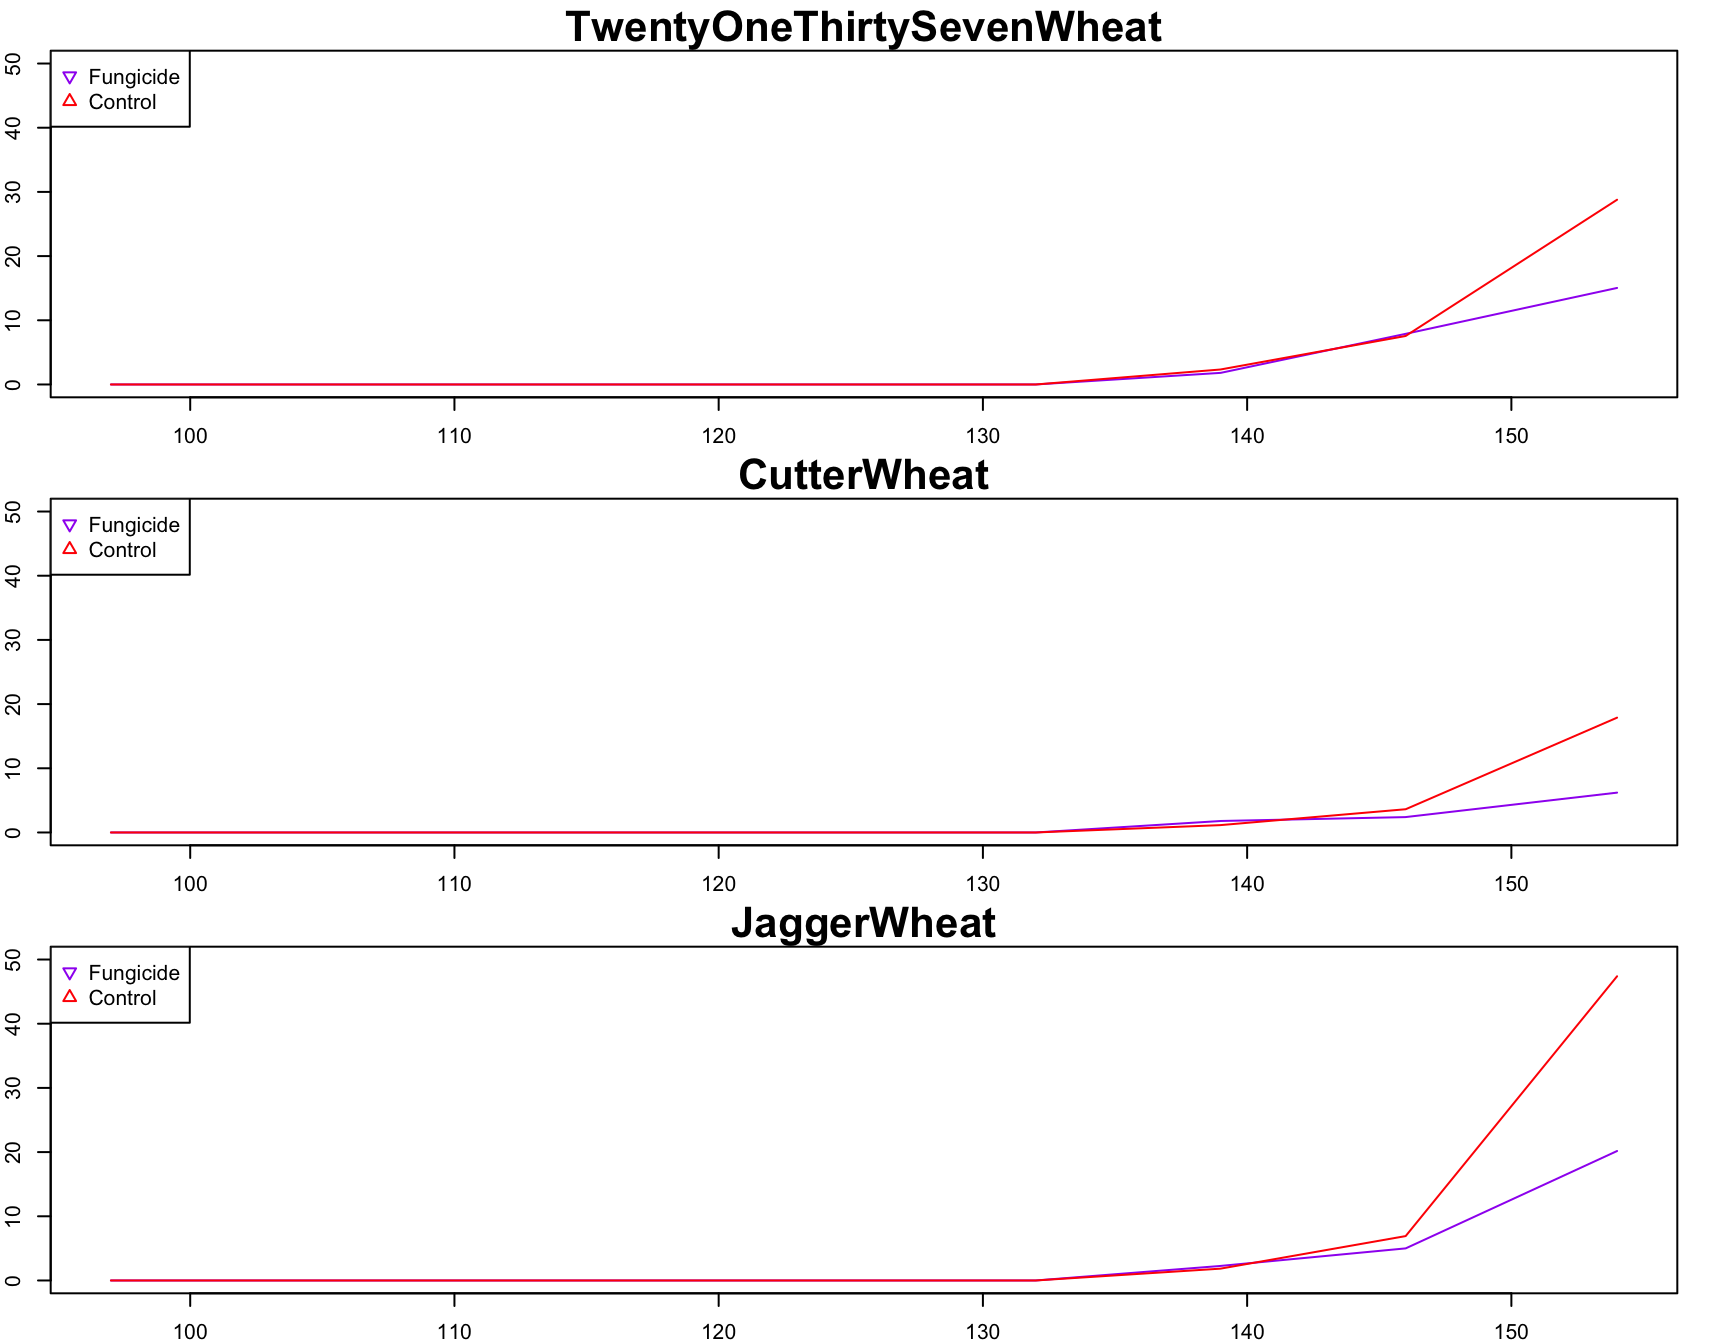
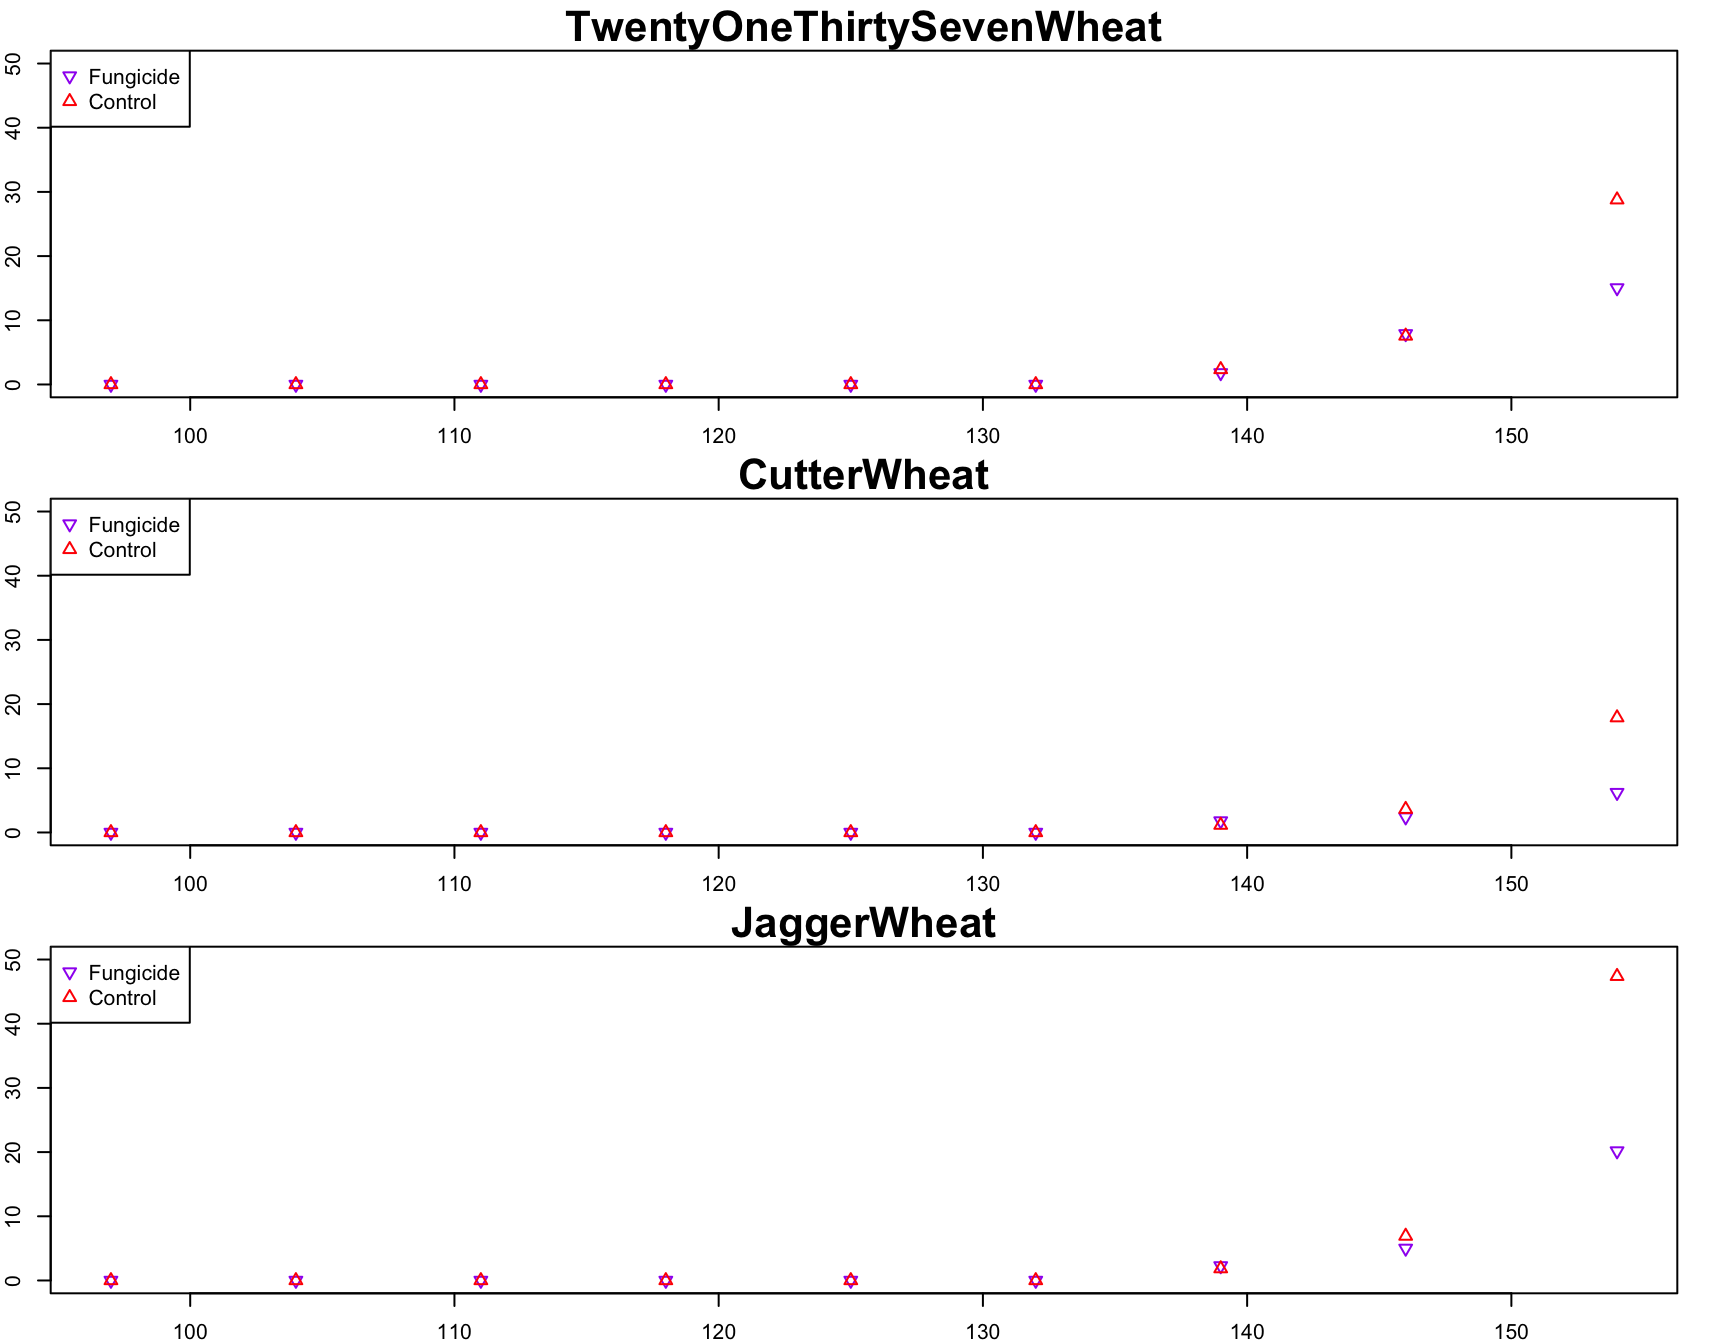
remove sorting
It was an unnecessary step that has the potential only to confuse.

diff --git a/docs/PartAEL-Basic_Visualization.html b/docs/PartAEL-Basic_Visualization.html
@@ -378,8 +378,6 @@ div.tocify {
 <p><img src="PartAEL-Basic_Visualization_files/figure-html/unnamed-chunk-4-1.png" width="100%" style="display: block; margin: auto;" /></p>
 <div id="making-three-plots-one-for-each-cultivar" class="section level2">
 <h2>Making three plots, one for each cultivar</h2>
-<p>Sort the data from lowest to highest severity</p>
-<pre class="r"><code>&gt; fungicide.tidy &lt;- fungicide.tidy[order(fungicide.tidy$Severity), ]</code></pre>
 <p>Create three separate data sets; one for each cultivar</p>
 <pre class="r"><code>&gt; fungicide.tidy.TwentyOneThirtySevenWheat &lt;- fungicide.tidy[which(fungicide.tidy$Cultivar == &quot;TwentyOneThirtySevenWheat&quot; ), ]
 &gt; fungicide.tidy.CutterWheat &lt;- fungicide.tidy[which(fungicide.tidy$Cultivar == &quot;CutterWheat&quot;), ]
@@ -488,7 +486,7 @@ div.tocify {
 +   pch = c(25, 24),
 +   legend = c(&quot;Fungicide&quot;, &quot;Control&quot;)
 + )</code></pre>
-<p><img src="PartAEL-Basic_Visualization_files/figure-html/unnamed-chunk-8-1.png" width="100%" style="display: block; margin: auto;" /></p>
+<p><img src="PartAEL-Basic_Visualization_files/figure-html/unnamed-chunk-7-1.png" width="100%" style="display: block; margin: auto;" /></p>
 </div>
 <div id="change-the-symbols-so-that-they-are-histogram-like" class="section level2">
 <h2>Change the symbols so that they are “histogram-like”</h2>
@@ -592,7 +590,7 @@ div.tocify {
 +   pch = c(25, 24),
 +   legend = c(&quot;Fungicide&quot;, &quot;Control&quot;)
 + )</code></pre>
-<p><img src="PartAEL-Basic_Visualization_files/figure-html/unnamed-chunk-9-1.png" width="100%" style="display: block; margin: auto;" /></p>
+<p><img src="PartAEL-Basic_Visualization_files/figure-html/unnamed-chunk-8-1.png" width="100%" style="display: block; margin: auto;" /></p>
 <p>Change the symbols to lines</p>
 <pre class="r"><code>&gt; par(mfrow = c(3, 1),
 +     mar = c(2, 2, 2, 2),
@@ -693,7 +691,7 @@ div.tocify {
 +   pch = c(25, 24),
 +   legend = c(&quot;Fungicide&quot;, &quot;Control&quot;)
 + )</code></pre>
-<p><img src="PartAEL-Basic_Visualization_files/figure-html/unnamed-chunk-10-1.png" width="100%" style="display: block; margin: auto;" /></p>
+<p><img src="PartAEL-Basic_Visualization_files/figure-html/unnamed-chunk-9-1.png" width="100%" style="display: block; margin: auto;" /></p>
 <p>Change the symbols to points and lines</p>
 <pre class="r"><code>&gt; pdf(&quot;results/Disease.Severity.Fungicide.vs.Control.pdf&quot;, width = 8)
 &gt; par(mfrow = c(3, 1),
